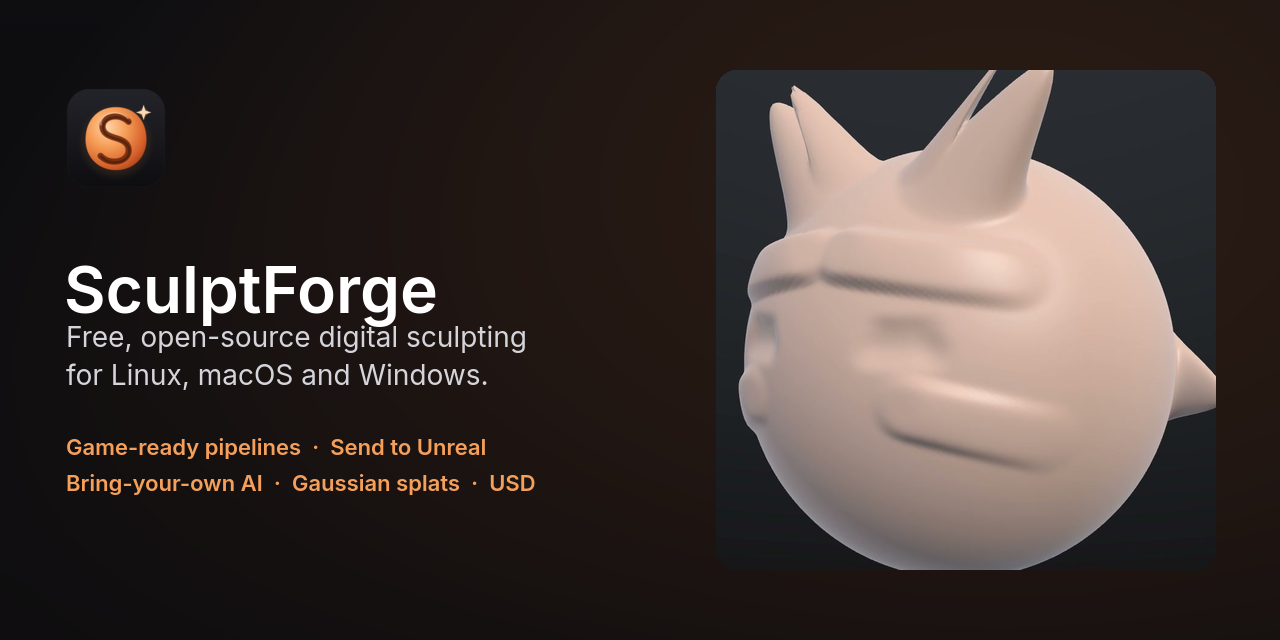
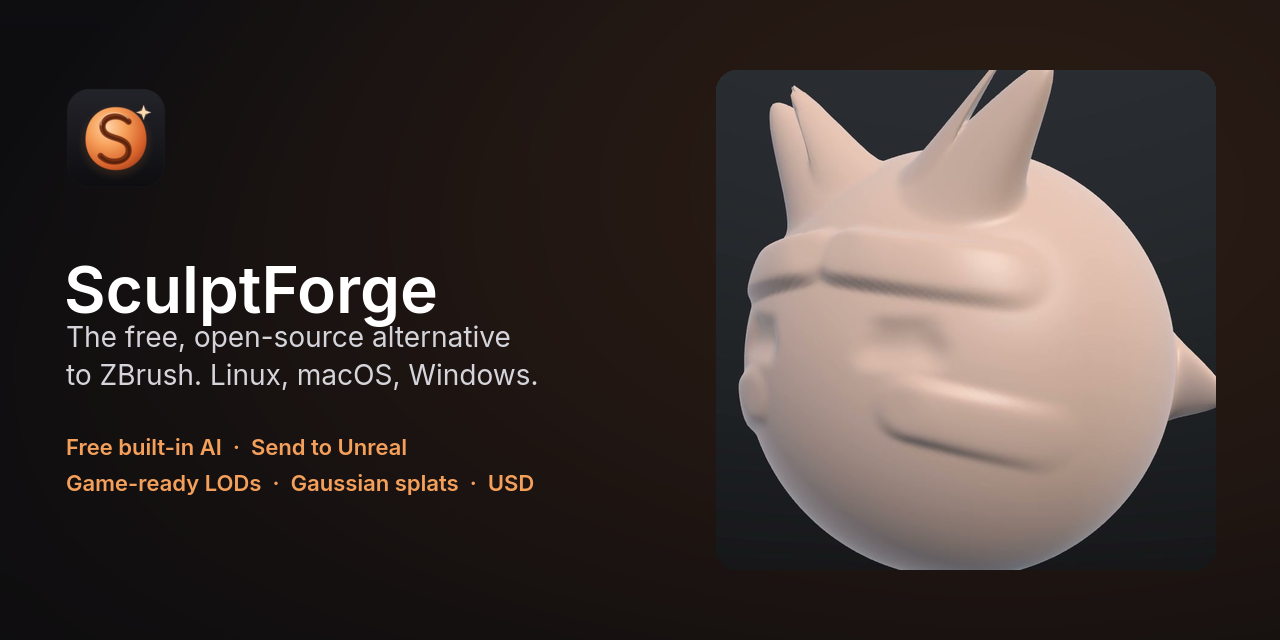
Fix EL8 link and CI Python test; lead with free built-in AI; dark-mode fix
- Link Threads::Threads (glibc 2.28 keeps pthreads in a separate library)
- CI: install NumPy for the Python API test, including in Rocky containers
- Wording: "free built-in AI, or bring your own" across README, website,
  metadata and the social preview image
- Website: solid accent colour and color-scheme: dark, so dark-mode
  extensions and forced colours keep "Ship it." readable

Changed region(s): [[0.0312, 0.5, 0.4062, 0.625], [0.0312, 0.6875, 0.4375, 0.7812]]

diff --git a/website/index.html b/website/index.html
@@ -4,13 +4,14 @@
   <meta charset="utf-8">
   <meta name="viewport" content="width=device-width, initial-scale=1">
   <title>SculptForge - the free, open-source ZBrush alternative</title>
-  <meta name="description" content="SculptForge is a free, open-source alternative to ZBrush for Linux, macOS and Windows, with game-ready pipelines, Send to Unreal, Gaussian splats, OpenUSD and bring-your-own AI.">
+  <meta name="description" content="SculptForge is a free, open-source alternative to ZBrush for Linux, macOS and Windows, with game-ready pipelines, Send to Unreal, Gaussian splats, OpenUSD and free built-in AI.">
   <meta name="theme-color" content="#111114">
+  <meta name="color-scheme" content="dark">
   <link rel="icon" type="image/png" href="img/favicon-64.png">
   <link rel="apple-touch-icon" href="img/icon-256.png">
   <meta property="og:type" content="website">
   <meta property="og:title" content="SculptForge - the free, open-source ZBrush alternative">
-  <meta property="og:description" content="Sculpt like you already do. Ship to Unreal, glTF and USD. Bring your own AI - even fully local.">
+  <meta property="og:description" content="Sculpt like you already do. Ship to Unreal, glTF and USD. Free AI built in, or bring your own.">
   <meta property="og:image" content="https://islandmed.github.io/SculptForge/img/social-preview.png">
   <meta property="og:url" content="https://islandmed.github.io/SculptForge/">
   <meta name="twitter:card" content="summary_large_image">
@@ -39,14 +40,15 @@
           <h1><span class="nowrap">Sculpt it.</span> <span class="nowrap">Forge it.</span><br><span class="accent">Ship it.</span></h1>
           <p class="lede">Digital sculpting for Linux, macOS and Windows: the brushes, symmetry and navigation
             ZBrush artists already know, with no subscription. It adds one-click
-            game-ready LODs, <strong>Send to Unreal</strong>, Gaussian splats and OpenUSD. Optional AI tools use
-            the model <em>you</em> choose, including free and fully local ones.</p>
+            game-ready LODs, <strong>Send to Unreal</strong>, Gaussian splats and OpenUSD, plus <strong>free built-in
+            AI</strong>: turn a sketch or a sentence into a model you can sculpt. No account needed, or bring
+            your own AI.</p>
           <div class="ctas">
             <a class="btn primary" href="#download">Download</a>
             <a class="btn" href="https://github.com/islandmed/SculptForge">View on GitHub</a>
           </div>
           <ul class="pills" aria-label="Highlights">
-            <li>No account</li><li>No telemetry</li><li>Windows · macOS · Linux</li><li>Offline-first</li>
+            <li>Free built-in AI</li><li>No account</li><li>No telemetry</li><li>Windows · macOS · Linux</li><li>Offline-first</li>
           </ul>
         </div>
         <figure class="hero-video">
@@ -159,14 +161,15 @@
     <section class="section">
       <div class="wrap two-col">
         <div>
-          <h2>Your AI, your choice</h2>
-          <p>Every AI feature is optional and talks directly to the service you pick. SculptForge has no servers,
-            no account and no telemetry.</p>
+          <h2>Free AI built in, or bring your own</h2>
+          <p>AI works out of the box at no cost: free models for image and text to 3D, and local models for brush
+            design. Every AI feature is optional and talks directly to the service you pick. SculptForge has no
+            servers, no account and no telemetry.</p>
           <ul class="checks">
             <li><strong>Local models</strong> (Ollama, LM Studio) for brush design. They're free, private and
               work offline.</li>
-            <li><strong>Free cloud models</strong> on Hugging Face for image and text to 3D.</li>
-            <li><strong>Your own keys</strong> for Claude, fal.ai or Meshy when you want more.</li>
+            <li><strong>Free, built in:</strong> Hunyuan3D, TRELLIS.2 and Stable Fast 3D on Hugging Face for image and text to 3D, with no key needed.</li>
+            <li><strong>Bring your own</strong> Claude, fal.ai or Meshy key when you want more speed or capacity.</li>
           </ul>
           <p class="fine">Each model has its own licence. For example, Tencent's Hunyuan3D isn't licensed for use
             in the EU, UK or South Korea.

diff --git a/website/style.css b/website/style.css
@@ -3,6 +3,7 @@
 @font-face { font-family: "Inter"; src: url("fonts/Inter-SemiBold.ttf") format("truetype"); font-weight: 600 700; font-display: swap; }
 
 :root {
+  color-scheme: dark; /* the site is dark by design: tells browsers not to auto-darken it */
   --bg: #0f0f12;
   --bg-alt: #15151a;
   --panel: #1b1b21;
@@ -52,7 +53,8 @@ p { margin: 0 0 1em; }
 .hero-grid { display: grid; grid-template-columns: 1.05fr 1.2fr; gap: 48px; align-items: center; }
 .eyebrow { color: var(--accent-2); font-weight: 600; font-size: 0.85rem; letter-spacing: 0.08em; text-transform: uppercase; }
 .nowrap { white-space: nowrap; }
-.accent { background: linear-gradient(90deg, var(--accent), var(--accent-2)); -webkit-background-clip: text; background-clip: text; color: transparent; }
+/* Solid colour (not gradient-clipped text) so dark-mode extensions and forced colours keep it readable. */
+.accent { color: #ff9a4a; text-shadow: 0 0 28px rgba(242, 140, 60, 0.35); }
 .lede { color: #cfcfd6; font-size: 1.12rem; max-width: 34em; }
 .ctas { display: flex; gap: 12px; margin: 28px 0 22px; flex-wrap: wrap; }
 .btn { display: inline-block; padding: 12px 22px; border-radius: 999px; border: 1px solid var(--border); color: var(--text);
@@ -136,3 +138,8 @@ p { margin: 0 0 1em; }
 .code { background: #0b0b0e; border: 1px solid var(--border); border-radius: 12px; padding: 18px 20px; overflow-x: auto;
         font: 0.88rem/1.55 ui-monospace, SFMono-Regular, Menlo, Consolas, monospace; color: #e4e4ea; }
 .code code { background: none; padding: 0; }
+
+@media (forced-colors: active) {
+  .accent { color: Highlight; text-shadow: none; }
+  .btn.primary { border: 1px solid ButtonText; }
+}

diff --git a/README.md b/README.md
@@ -6,7 +6,7 @@
 
 <p align="center">
   <strong>The free, open-source alternative to ZBrush.</strong><br>
-  Digital sculpting for Linux, macOS and Windows, with game-ready pipelines and bring-your-own AI.
+  Digital sculpting for Linux, macOS and Windows, with game-ready pipelines and free built-in AI.
 </p>
 
 <p align="center">
@@ -32,9 +32,9 @@ SculptForge is a free, open-source alternative to ZBrush: a focused sculpting ap
 navigation ZBrush artists already know. It costs nothing, has no subscription, runs natively on Linux as well as
 Windows and macOS, and comes with source code you can change. It starts instantly, works offline,
 and fits into game and animation pipelines: sculpt a character, generate its LODs, sculpt blend shapes, and
-send it straight into Unreal Engine. Optional AI tools design brushes from a description and turn images or
-text into sculptable models, using the model *you* choose. That can be a free one, or one running entirely
-on your own machine.
+send it straight into Unreal Engine. **AI comes built in and free**: turn a sketch, concept art or a description
+into a sculptable model, or describe a brush and get it. No account or key is needed. Prefer your own?
+Plug in Claude, fal.ai or Meshy, or run models entirely on your own machine.
 
 ## Coming from ZBrush?
 
@@ -64,13 +64,13 @@ SculptForge doesn't read ZBrush's proprietary `.ZTL`/`.ZPR` files; bring models 
 - Unlimited undo, Loop subdivision, **voxel remesh** (DynaMesh-style) and quadric decimation.
 - **Sculpt layers** that work as blend shapes, with live weights and playback.
 
-**Brush Lab: describe a brush, AI builds it**
+**Free built-in AI: Brush Lab (describe a brush, AI builds it)**
 - "Dry cracked mud", "overlapping dragon scales", then "make it sharper". Brushes are recipes (data, never
   code), with every value exposed as a slider. Share them as `.sfbrush` files.
 - Works with Claude (Anthropic API) or any OpenAI-compatible endpoint, including **local models through
   Ollama or LM Studio**.
 
-**Generate 3D from an image or text**
+**Free built-in AI: Generate 3D from an image or text**
 - A sketch, a piece of concept art or a description becomes a full 3D model (limbs, back and all), then gets
   remeshed so you can sculpt it straight away.
 - **Free** through the official Hugging Face demos of Hunyuan3D 2 / 2.1, TRELLIS.2 and Stable Fast 3D; or
@@ -213,7 +213,7 @@ argument `--mcp`. The agent gets every command as a tool and works on one live s
 src/core     Mesh, BVH, brushes & recipes, layers, undo, subdivision, decimation,
              voxel remesh, Gaussian splats, image-to-3D, command registry (no GPU/UI)
 src/io       File formats: OBJ, FBX, glTF/GLB (+ KHR_gaussian_splatting), PLY, .splat, USDA/USDZ
-src/ai       Bring-your-own AI: HTTPS client, brush assistant, image/text-to-3D services, Gradio client
+src/ai       AI services (free built-in and bring-your-own): HTTPS client, brush assistant, image/text-to-3D services, Gradio client
 src/link     Live links to game engines (Unreal Python remote execution)
 src/cli      sculptforge-cli and its MCP server
 src/render   OpenGL 3.3 renderer, splat renderer, offscreen capture

diff --git a/ROADMAP.md b/ROADMAP.md
@@ -10,7 +10,7 @@
 | Very high poly counts | Excellent | Good | Good | Limited | Goal: excellent |
 | ZBrush-style controls | — | Partial (keymap) | Partial | No | **Yes, by default** |
 | Headless / scriptable core | Limited (ZScript) | Python (whole app) | No | No | **Yes (core library + commands)** |
-| AI assistant | Limited | Add-ons only | No | No | **Bring your own AI: brush design today** |
+| AI assistant | Limited | Add-ons only | No | No | **Free built-in AI or bring your own: brushes, image/text to 3D** |
 | Image to 3D | No | Add-ons only | No | No | **Free Hunyuan3D / TRELLIS.2 / SF3D via Hugging Face, paid fal.ai / Meshy, local generators** |
 | Gaussian splats | No | Add-ons only | No | No | **View captures, splat ↔ mesh, PLY / .splat / glTF / USD** |
 | OpenUSD | Export plugin | Yes | No | No | **USDA/USDZ with UsdSkel blend shapes and splat prims** |
@@ -25,7 +25,7 @@ Where SculptForge aims to win:
 2. **First-class Linux** alongside macOS and Windows.
 3. **Familiar to ZBrush users** — controls work the way they expect.
 4. **Scriptable** — every action is a named command callable from UI, scripts or AI.
-5. **Bring your own AI** — opt-in, provider-agnostic, works fully offline with local models.
+5. **Free AI built in, or bring your own:** free models out of the box, provider-agnostic, and fully offline with local models.
 
 Where we deliberately do *not* compete yet: ZRemesher-class automatic
 retopology, a full ZBrush feature list, rendering/animation (use Blender).

diff --git a/CHANGELOG.md b/CHANGELOG.md
@@ -15,7 +15,7 @@ First public release.
 - Loop subdivision, voxel remesh (DynaMesh-style), quadric decimation.
 - Sculpt layers (blend shapes) with live weights and playback.
 
-### AI (optional, bring your own)
+### AI (free built in, or bring your own)
 - Brush Lab: describe a brush, get a procedural brush recipe; Anthropic or any OpenAI-compatible endpoint,
   including local models through Ollama / LM Studio.
 - Generate 3D from an image or from text: free via Hugging Face Spaces (Hunyuan3D, TRELLIS.2, Stable Fast 3D),
